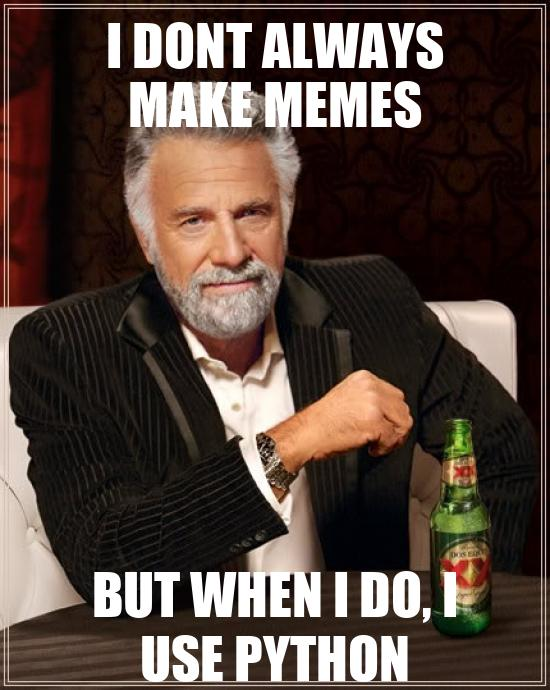
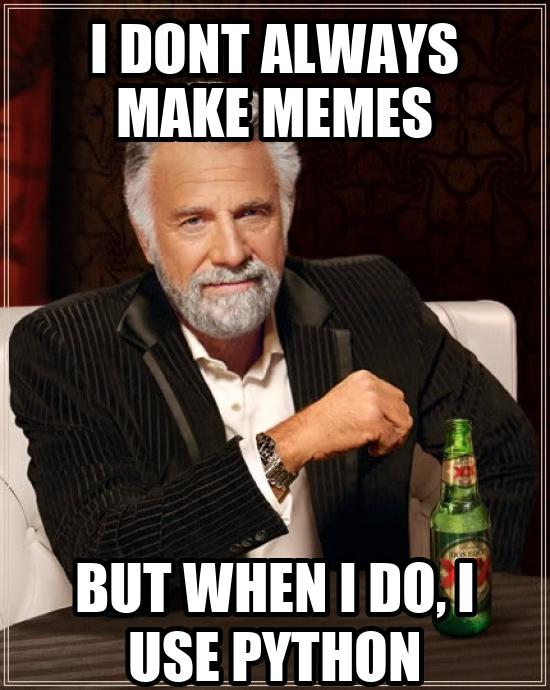
Add black outline

Changed region(s): [[0.1236, 0.7913, 0.8964, 1.0], [0.1545, 0.0304, 0.8345, 0.213]]

diff --git a/meme_generator.py b/meme_generator.py
@@ -1,47 +1,49 @@
-from PIL import Image, ImageDraw, ImageFont
 import textwrap
 
+from PIL import Image, ImageDraw, ImageFont
 
-def generate_meme(image_path, top_text, bottom_text='', font_path='./fonts/impact/impact.ttf', font_size=9):
-	# load image
-	im = Image.open(image_path)
-	draw = ImageDraw.Draw(im)
-	image_width, image_height = im.size
-	
-	# load font
-	font = ImageFont.truetype(font=font_path, size=int(image_height*font_size)//100)
 
-	# convert text to uppercase
-	top_text = top_text.upper()
-	bottom_text = bottom_text.upper()
+def generate_meme(image_path, top_text, bottom_text='', font_path='./fonts/impact/impact.ttf', font_size=9,
+                  stroke_width=5):
+    # load image
+    im = Image.open(image_path)
+    draw = ImageDraw.Draw(im)
+    image_width, image_height = im.size
 
-	# text wrapping
-	char_width, char_height = font.getsize('A')
-	chars_per_line = image_width // char_width
-	top_lines = textwrap.wrap(top_text, width=chars_per_line)
-	bottom_lines = textwrap.wrap(bottom_text, width=chars_per_line)
+    # load font
+    font = ImageFont.truetype(font=font_path, size=int(image_height * font_size) // 100)
 
-	# draw top lines
-	y = 10
-	for line in top_lines:
-	    line_width, line_height = font.getsize(line)
-	    x = (image_width - line_width)/2
-	    draw.text((x,y), line, fill='white', font=font)
-	    y += line_height
+    # convert text to uppercase
+    top_text = top_text.upper()
+    bottom_text = bottom_text.upper()
 
-	# draw bottom lines
-	y = image_height - char_height * len(bottom_lines) - 15
-	for line in bottom_lines:
-	    line_width, line_height = font.getsize(line)
-	    x = (image_width - line_width)/2
-	    draw.text((x,y), line, fill='white', font=font)
-	    y += line_height
+    # text wrapping
+    char_width, char_height = font.getsize('A')
+    chars_per_line = image_width // char_width
+    top_lines = textwrap.wrap(top_text, width=chars_per_line)
+    bottom_lines = textwrap.wrap(bottom_text, width=chars_per_line)
 
-	# save meme
-	im.save('meme-' + im.filename.split('/')[-1])
+    # draw top lines
+    y = 10
+    for line in top_lines:
+        line_width, line_height = font.getsize(line)
+        x = (image_width - line_width) / 2
+        draw.text((x, y), line, fill='white', font=font, stroke_width=stroke_width, stroke_fill='black')
+        y += line_height
+
+    # draw bottom lines
+    y = image_height - char_height * len(bottom_lines) - 15
+    for line in bottom_lines:
+        line_width, line_height = font.getsize(line)
+        x = (image_width - line_width) / 2
+        draw.text((x, y), line, fill='white', font=font, stroke_width=stroke_width, stroke_fill='black')
+        y += line_height
+
+    # save meme
+    im.save('meme-' + im.filename.split('/')[-1])
 
 
 if __name__ == '__main__':
-	top_text = "I dont always make memes"
-	bottom_text = "But when I do, I use Python"
-	generate_meme('./idontalways.jpg', top_text=top_text, bottom_text=bottom_text)
+    top_text = "I dont always make memes"
+    bottom_text = "But when I do, I use Python"
+    generate_meme('./idontalways.jpg', top_text=top_text, bottom_text=bottom_text)
